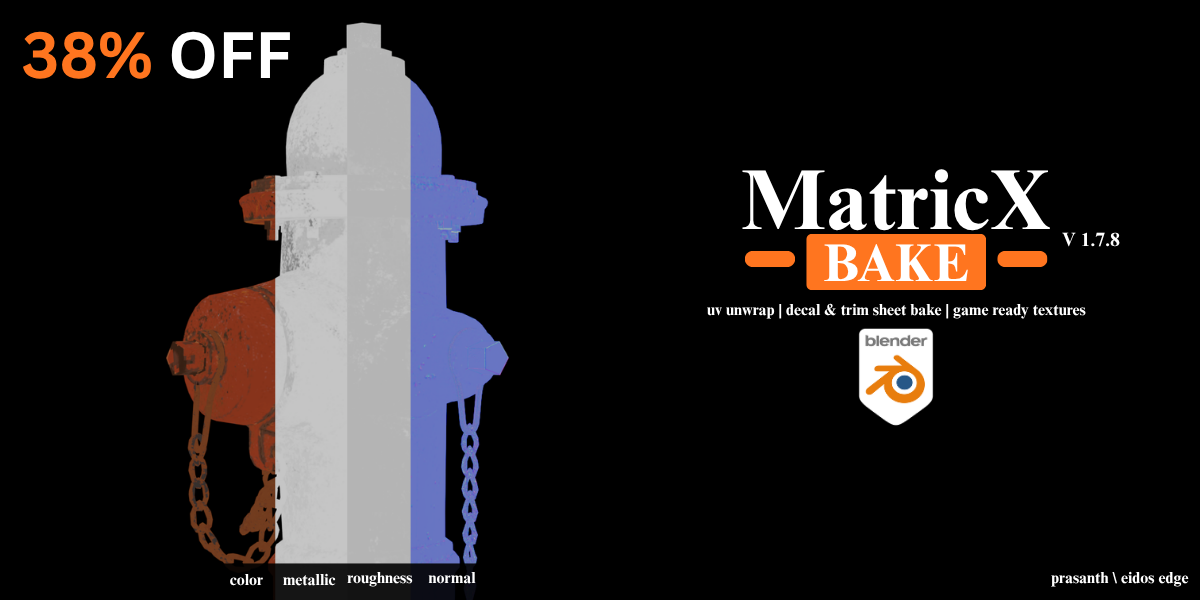
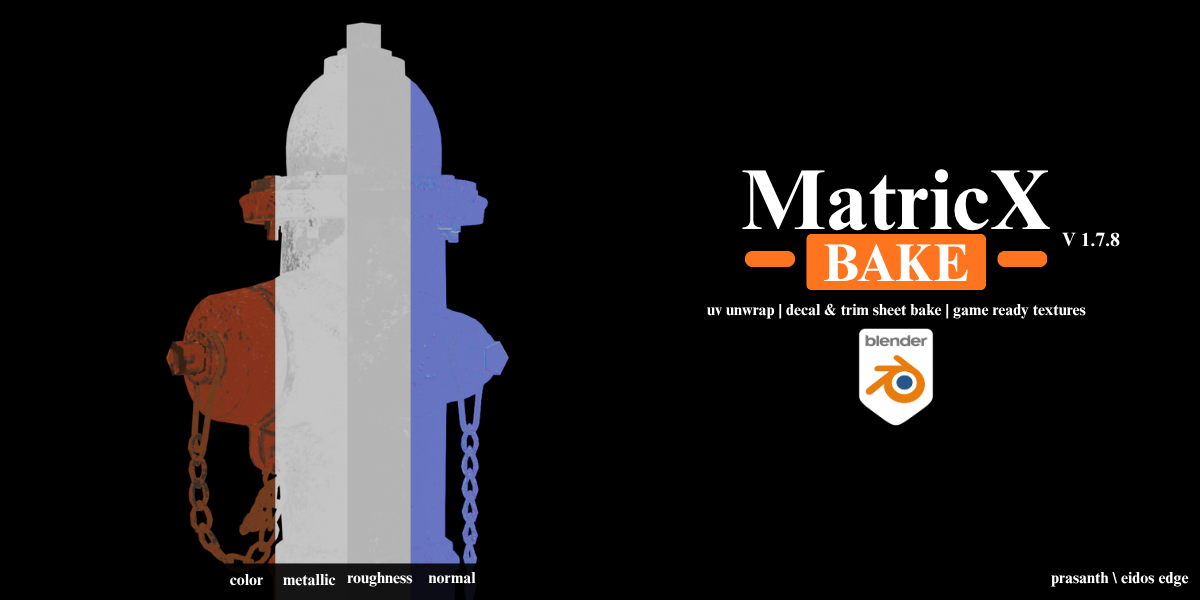
Bake thumbnail: version without the offer badge

Changed region(s): [[0.0, 0.03, 0.2467, 0.15]]

diff --git a/index.html b/index.html
@@ -7,7 +7,7 @@
 <meta name="description" content="MatricX Bake for Blender bakes MatricX PRO materials, node setups and decals into clean PBR texture sets — one object, a collection or one shared atlas — and exports FBX or GLB for Unity, Unreal and Godot.">
 <meta property="og:title" content="MatricX Bake — Procedural Materials In, Game-Ready Textures Out">
 <meta property="og:description" content="Bake materials and decals into PBR texture sets and export game assets from Blender 4.5–5.2.">
-<meta property="og:image" content="https://jack-hardsurface.github.io/MatricX-Bake-Page/hero/bake-thumbnail.png">
+<meta property="og:image" content="https://jack-hardsurface.github.io/MatricX-Bake-Page/hero/bake-thumbnail.png?v=2">
 <meta name="twitter:card" content="summary_large_image">
 <link rel="icon" href="https://jack-hardsurface.github.io/MatricX-Pro-Page/assets/logo.png">
 <link rel="preconnect" href="https://fonts.googleapis.com">
